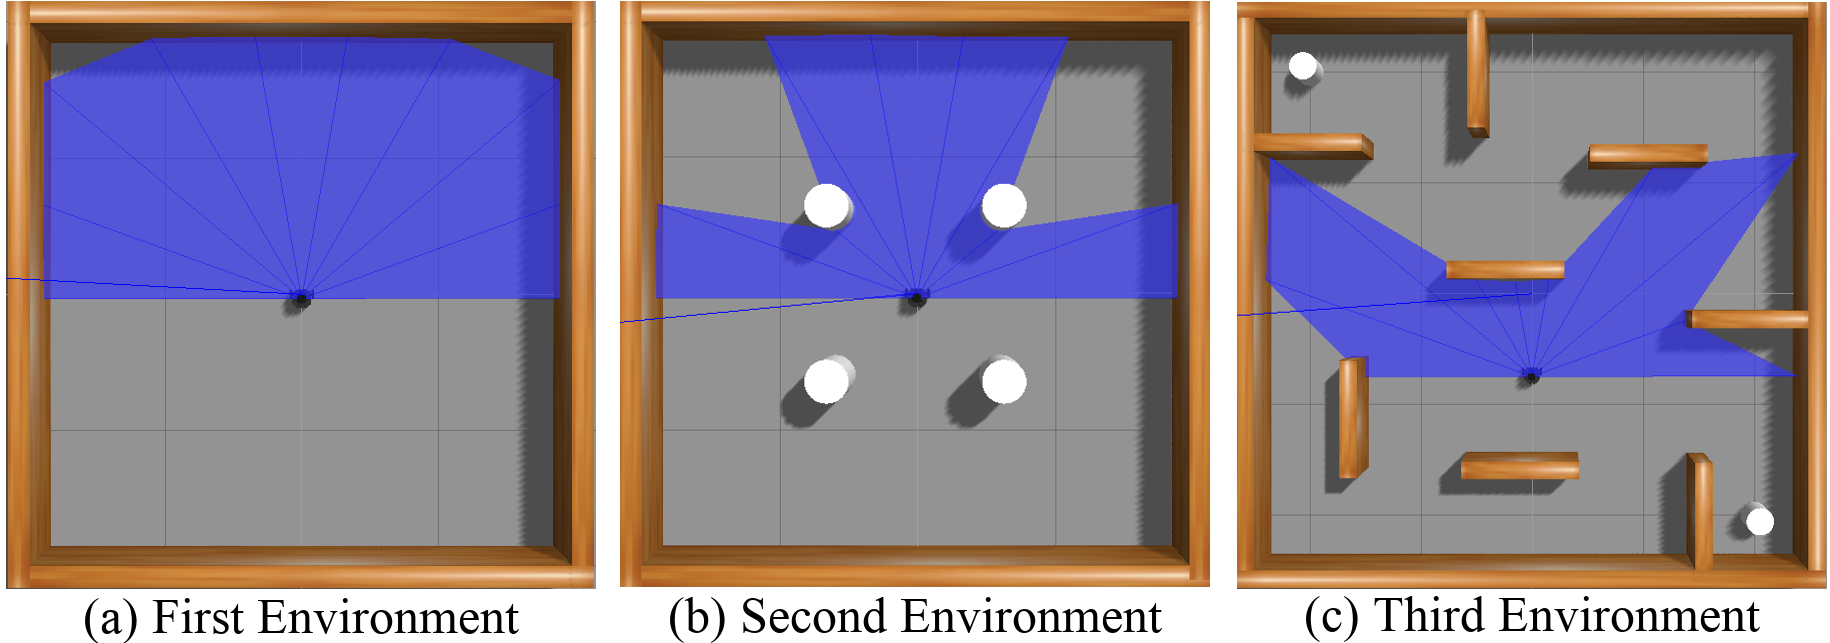
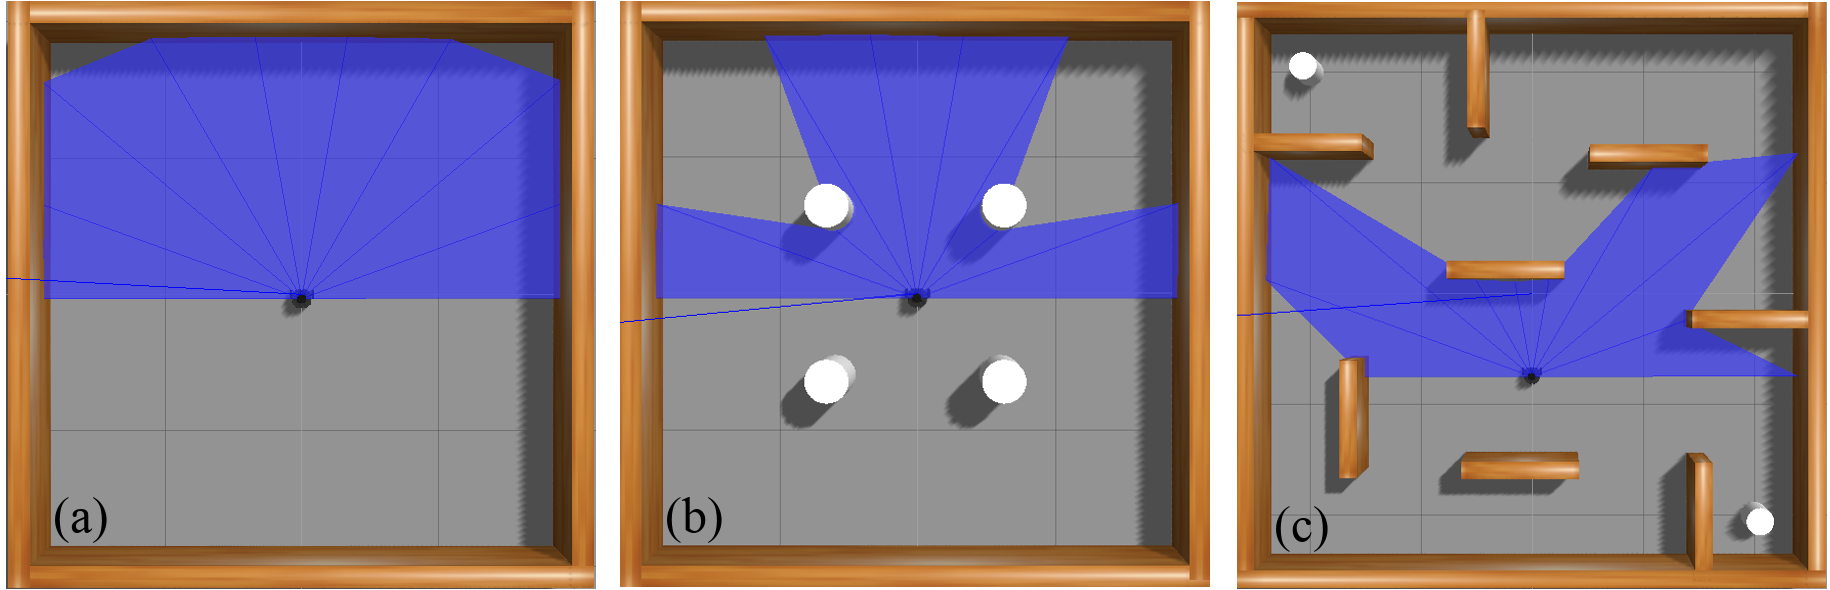
opencv_and_capture_explanation

diff --git a/sections/6_methodology.tex b/sections/6_methodology.tex
@@ -16,8 +16,8 @@ Once the system of state and actions has been defined, it is possible to create 
 The DDPG network has 14 inputs as presented in Fig. \ref{fig:entradaESaida}, in which 10 corresponds to the laser range findings, 2 corresponds to the linear and angular velocity, and the other 2 corresponds to the relative position and angle of the mobile robot to the target.
 The sample of the laser range findings are between $-90$ and $90$ degrees in relation to the robot. The output of the network is the action of linear and angular velocity that will be applied on the mobile robot.
 
-\begin{figure}
-\centerline{\includegraphics[width=\columnwidth]{images/o_and_i.png}}
+\begin{figure}[H]
+\centerline{\includegraphics[width=8cm]{images/o_and_i.png}}
 \caption{DDPG network inputs and outputs.}
 \label{fig:entradaESaida}
 \end{figure}
@@ -29,11 +29,11 @@ The angular velocity range is constrained between $(-1,1)$ and the hyperbolic ta
 For the linear angular range, that it is constrained between $(0,1)$, the sigmoid function was used.
 As there is no laser readings in the back of robot, the backward move is not necessary.
 The output actions are then multiplied with two hyperparameters to decide the final linear and angular velocity executed by the mobile robot.
-For this, it was used as maximum linear velocity $0.22$ $m/s$ and maximum angular velocity $1$ $rad/s$ on the TurtleBot3 robot version Burger.
+For this, it was used as maximum linear velocity $0.22$ $m/s$ and maximum angular velocity $2$ $rad/s$ on the TurtleBot3 robot version Burger.
 
 
-\begin{figure}
-\centerline{\includegraphics[width=\columnwidth]{images/projeto_integrador_en.png}}
+\begin{figure}[H]
+\centerline{\includegraphics[width=12cm]{images/projeto_integrador_en.png}}
 \caption{DDPG network structure model.}
 \label{fig:projetointegrador}
 \end{figure}
@@ -52,25 +52,23 @@ where $x$ is the input of the last layer, $y$ is the predicted Q-value, and $k$ 
 There were used three environments for the simulations. The first environment is  shown in Fig. \ref{fig:environments}(a), the environment represents a free area for the robot to move.
 The walls of this environment are the only things where the robot can collide.
 If the mobile robot collide with the wall or any obstacle, a negative reward is given for this action and the current episode stops.
-
-\begin{figure}
-\centerline{\includegraphics[width=\columnwidth]{images/environments1.png}}
-\caption{Training environments used on Gazebo simulation.}
-\label{fig:environments}
-\end{figure}
-
 The second environment is shown in Fig. \ref{fig:environments}(b) and has 4 fixed obstacles.
 It means that this environment is more complex in a way that the intelligent agent have to make a better strategy to not collide.
-
 The third environment, shown in Fig. \ref{fig:environments}(c), is more complex than the previous environments.  
 The number of walls and the mobile obstacles, represented by the white blocks, makes the environment more dynamical, approaching it to a real-world environment.
+
+\begin{figure}[H]
+\centerline{\includegraphics[width=\columnwidth]{images/environments1.png}}
+\caption{Training environments used on Gazebo simulation. First environment (a), second environment (b) and third environment (c).}
+\label{fig:environments}
+\end{figure}
 
 \subsection*{Reward Function}
 
 Once the environment have been defined it is possible to simulate a controlled mobile robot for a navigation task.
 Now it is necessary to define the reward and penalty system to the Deep-RL network.
 Remembering that the rewards and penalties are attributed numbers passed to the intelligent agent.
-So, the network will make a feedforward and backpropation step in order to learn the hyperparameters.
+So, the network will make a feedforward and backpropagation step in order to learn the hyperparameters.
 
 There are four different conditions for the reward system that presented better results for the problem's resolution and are the following:
 \begin{equation}
@@ -92,4 +90,49 @@ Otherwise, the reward is based on the distance difference from the target compar
 If this difference is positive the reward given is the distance traveled multiplied by the hyperparameter $(c_{r1})$, and if the distance is negative is used the hyperparameter $(c_{r2})$.
 This motivates the mobile robot to get closer to the target position and encourages it to avoid the obstacles in the environment.
 
+\subsection*{Positioning capture in real environments}
 
+After the DDPG network training through simulation, it will be tested how effective can be a this type of network in a real environment.
+A TurtleBot3, version Burger, will be used to perform this test. But for it is necessary to obtain the angle and distance of a target for the network to complete its goal. So it was setup a camera in the ceiling to extract this information.
+
+Firstly, the essential points positions to extract the angle and distance are taken from the image.
+These positions include the target, left and right side of the robot, and three points to be a distance reference parameter.
+In Fig. \ref{fig:pixel_to_meter} is shown that were used different colored circles to identify the relevant points.
+The yellow circle was attached to the target, the blue to the left side of the robot, the red to the right side and the three green circles were used by a reference parameter to calculate the distance.
+
+\begin{figure}[H]
+\centerline{\includegraphics[width=10cm]{images/pixel_to_meter.png}}
+\caption{Real environment relevant points}
+\label{fig:pixel_to_meter}
+\end{figure}
+
+
+After the points were extracted from the center of the circles, it is possible to calculate the two necessary DDPG network inputs.
+So, it is necessary to figure out the vector $distance$ that connects the center of TurtleBot3 to the target point, and the vector $direction$ which represents the direction of robot.
+The vector $direction$ starts from the center of TurtleBot3, which is equal to the midpoint of the blue and red points.
+The blue and red circles are on left and right sides of the mobile robot, respectively.
+With this it possible to determine front of the robot.
+%aqui vou escrever mais 
+The center of green circles have a predefined distance from each other, what permits the calculation of robot and target distance by converting the pixel distance of the image to the distance in meters.
+%aqui tbm
+
+
+
+
+% e aeee
+%acabei de perder meia hora no face AAAAAAA
+% cara, na escrita n me dou mt bem, mas vou escrevendo o q vem na cabeça e após a gente estrutura melho
+% faz isso mesmo meu KKKK eu sou meio travado na vdd mas to tentando (bem travado)
+% a ideia é meter o louco e escrever tudo que vem na mente
+% isso vem com a pratica SAUHSUAS, 
+% pode se sentir a vontade pra mudar as coisas.
+% só modifiquei pq achei melhor - ficou melhor assim msm ;)
+% o que tu conseguir escrever eu e o professor gamarra corrigimos depois
+
+
+%qual tu pensa a imagem pra colocar nessa subsection ae
+%um frame com o alvo indicado, pixel meter parameter tb, e o robo? q nem o video do face? ---> meu acho que pode ser só uma imagem que contenha o robo, a referencia e tals (pode ser do primeiro ambiente que a gente tinha feito) ai tu explica através dela - OK
+
+%coloquei a imagem do grafico com os obstáculos no drive, acho q ficou ok ---> eu vi, tá top na real - :D
+% amanhã vou pegar pra escrever nos resultados, tava editando o modelo mais hj - azulzinho topi --> e as imagens pra ficarem melhor tbm
+% vou pegar pra dormir aqui na real, flws o/// falooooow veéeei até amanhã

diff --git a/sections/7_results.tex b/sections/7_results.tex
@@ -8,7 +8,7 @@ All the training environments were arranged by ROBOTIS, however, some alteration
 A mobile robot with a DDPG network was trained in order to make the experiments in the environments presented on Fig. \ref{fig:environments}, where the goal of the mobile robot is to get to the target.
 For the first test was used the first environment that shows, in Fig. \ref{fig:amb1target}, a sequence of frames of the robot and the target. We can observe how the robot start in an initial position distant from the target, navigating in order to reach the target.
 
-\begin{figure}
+\begin{figure}[H]
 \centerline{\includegraphics[width=\columnwidth]{images/amb1target.png}}
 \caption{Images sequence in the first environment.}
 \label{fig:amb1target}
@@ -21,8 +21,8 @@ It is observed in the episode 400 a fall.
 This is a probable correction on some maximized parameters of the network and it resulted in a low reward.
 Results like this means that the network has a continuous learning trying to correct itself. 
 
-\begin{figure}
-\centerline{\includegraphics[width=\columnwidth]{images/stage_1.png}}
+\begin{figure}[H]
+\centerline{\includegraphics[width=10cm]{images/stage_1.png}}
 \caption{Rewards of the first environment.}
 \label{fig:stage_1}
 \end{figure}
@@ -33,7 +33,7 @@ The reward, with the blue color, has a great variance, it was decided to use a m
 
 After the mobile robot has been trained on the first environment, the experiment was done in the second environment and tested. It is shown in Fig. \ref{fig:amb2target} a sequence of the actions made by the TurtleBot from an initial position until it could arrive to the target after the training episodes.
 
-\begin{figure}
+\begin{figure}[H]
 \centerline{\includegraphics[width=\columnwidth]{images/amb2target.png}}
 \caption{Images sequence in the second environment.}
 \label{fig:amb2target}
@@ -43,15 +43,15 @@ The reward function results of the training process for the second environment a
 Comparing this results with the last environment, we can observe that it needed more episodes so the robot could present good results.
 It is noticed that with a more complex environment, exists the possibility that an agent could take a longer time to get a good performance.
 
-\begin{figure}
-\centerline{\includegraphics[width=\columnwidth]{images/stage_2.png}}
+\begin{figure}[H]
+\centerline{\includegraphics[width=10cm]{images/stage_2.png}}
 \caption{Rewards of the second environment.}
 \label{fig:stage_2}
 \end{figure}
 
 For the final test and the sequence of the actions made by the TurtleBot to arrive to the target after the training process it was used the third environment.  A sequence of the actions made by the TurtleBot to arrive to the target after the training episodes are shown in Fig. \ref{fig:amb3target}.
 
-\begin{figure}
+\begin{figure}[H]
 \centerline{\includegraphics[width=\columnwidth]{images/amb3target.png}}
 \caption{Images sequence in the third environment.}
 \label{fig:amb3target}
@@ -67,8 +67,51 @@ This resulted in the agent making the decision of that mobile robot would collid
 The occurred behavior may have been caused because of the system created.
 In order to resolve these actions, probably, it would be necessary to create a reward system that could bypass the error of the network.
 
-\begin{figure}
-\centerline{\includegraphics[width=\columnwidth]{images/stage_4.png}}
+\begin{figure}[H]
+\centerline{\includegraphics[width=10cm]{images/stage_4.png}}
 \caption{Rewards of the third environment.}
 \label{fig:stage_4}
+\end{figure}
+
+% Continua
+
+After the training and validation of each simulation environment, it was created two more environments for the testing of the DDPG network in the real world.
+The first real environment is shown in Fig. \ref{fig:real_envs} (a) and resembles the first simulation with no obstacles. The second environment is shown in Fig. \ref{fig:real_envs} (b) and it presents a complex environment similar to the second and third used on simulation with the exception of not having moving obstacles.
+
+\begin{figure}[H]
+\centerline{\includegraphics[width=12cm]{images/real_envs.png}}
+\caption{Environments created for the DDPG test on the real world. First environment (a) and second environment(b).}
+\label{fig:real_envs}
+\end{figure}
+
+With the target defined on the first real environment, it was executed the DDPG network on the Turtlebot3.
+In the graph, shown in Fig. \ref{fig:env1_graph}, is possible to see the trajectory made by the network to arrive to the target.
+In the Fig. \ref{fig:frames_env1} is shown by frames the trajectory made my the robot to complete the task.
+
+\begin{figure}[H]
+\centerline{\includegraphics[width=12cm]{images/env1_graph.png}}
+\caption{Trajectory of the Turtlebot3 in the first real environment}
+\label{fig:env1_graph}
+\end{figure}
+
+\begin{figure}[H]
+\centerline{\includegraphics[width=\columnwidth]{images/frames_env1.png}}
+\caption{Images sequence of the Turtlebot3 in the first real environment}
+\label{fig:frames_env1}
+\end{figure}
+
+For final test of the network, it was used the second real environment. In the graph, shown in Fig. \ref{fig:env2_graph}, even with obstacle the network was capable to arrive to the target. In the Fig. \ref{fig:frames_env2} is shown by frames the trajectory made my the robot to complete the task. %So, with these results applied on real world environment we can see how effective can be a DDPG network trained in simulation environment
+The robot was able to accomplish both task given in the real world environments.
+This shows how effective can be the DDPG networks, trained in a simulation environment, in completing complex tasks on physical environment.
+
+\begin{figure}[H]
+\centerline{\includegraphics[width=12cm]{images/env2_graph.png}}
+\caption{Trajectory of the Turtlebot3 in the second real environment}
+\label{fig:env2_graph}
+\end{figure}
+
+\begin{figure}[H]
+\centerline{\includegraphics[width=\columnwidth]{images/frames_env2.png}}
+\caption{Images sequence of the Turtlebot3 in the second real environment}
+\label{fig:frames_env2}
 \end{figure}

diff --git a/sections/5_experimental.tex b/sections/5_experimental.tex
@@ -18,8 +18,8 @@ Despite the importance of low latency on the robots control, ROS is not a real-t
 TurtleBot is a ROS standard platform robot, and there are 3 version of the series. TurtleBots are affordable and programmable mobile robots for use in education, research, hobby, and product prototyping.
 The third version was used on this project, shown in Fig. \ref{fig:turtlebot3}.
 
-\begin{figure}
-\centerline{\includegraphics[width=\columnwidth]{images/burger.png}}
+\begin{figure}[H]
+\centerline{\includegraphics[width=12cm]{images/burger.png}}
 \caption{Real and simulated TurtleBot3 Burger in Gazebo.}
 \label{fig:turtlebot3}
 \end{figure}
@@ -29,10 +29,10 @@ All the control is made by the open source controller board OpenCR1.0 and Raspbe
 The Table \ref{tab1} shows all hardware specification of the TurtleBot3 version Burger.
 
 
-\begin{table}[htbp]
-\caption{Hardware Specication of the TurtleBot3 Burger}
+\begin{table}[H]
+\caption{Hardware Specification of the TurtleBot3 Burger}
 \begin{center}
-\begin{tabular}{|c|c|}
+\begin{tabular}{|l|l|}
 \hline
 \textbf{Items}&\textbf{Specification} \\
 \hline
@@ -78,6 +78,6 @@ This makes Gazebo a great tool on the area of robotic simulation.
 \subsection*{OpenCV}
 
 Open Source Computer Vision (OpenCV) is an open source computer vision and machine learning software library.
-It is mainly used for developing advanced image processing and computer vision applications.
+It is mainly used for developing advanced image processing and computer vision applications \cite{bradski2008learning}.
 With OpenCV is possible to take frames out of a video and run algorithms to get necessary information.
-It can be great to identify an object, recognize a face or in tracking the movement of an object, extracting coordinates, for example.
+It can be great to identify an object, recognize a face or track the movement of an object, extracting coordinates, for example, what is very useful and commonly used in the wide area of robotics.

diff --git a/sections/8_conclusion.tex b/sections/8_conclusion.tex
@@ -9,7 +9,7 @@ On the three environments proposed, the algorithm had a good performance, howeve
 
 It is possible to conclude that DDPG networks are suitable for the development of applications that need a continuous control on the robotics.
 The Deep-RL networks can produce excellent results if the reward system is well-made for the problem that it wants to solve.
-It was proved that intelligent agents can move around in a complex simulated environment without any previous knowledge of the environment.
+It was proved that intelligent agents can move around in a complex simulated environments as well as in real world environments without any previous knowledge of the environment.
 The network based on deep deterministic policy gradients can provide means of unifying the machine learning for the control of robotic systems.
 This technique can be applied in function as manipulation of robotic arms, pendulums, games among others.
-As future works, it is intended to use the deep reinforcement learning technique for the navigation of the TurtleBot3 Burger robot in a real environment, thus, being able to validate the training in a simulated environment in a real environment.
+% As future works, it is intended to use the deep reinforcement learning technique for the navigation of the TurtleBot3 Burger robot in a real environment, thus, being able to validate the training in a simulated environment in a real environment.

diff --git a/sections/2_introduction.tex b/sections/2_introduction.tex
@@ -15,8 +15,8 @@ The 14 inputs are composed by 10 readings of the laser sensor, the previous line
 And the outputs of the network are the linear and angular velocity that are sent to the robot in order to get to the target.
 It is expected the intelligent agent won't collide with any obstacle on its trajectory to the target.
 
-\begin{figure}
-\centerline{\includegraphics[width=\columnwidth]{images/mapless_en.png}}
+\begin{figure}[H]
+\centerline{\includegraphics[width=12cm]{images/mapless_en.png}}
 \caption{System definition.}
 \label{fig:mapless}
 \end{figure}

diff --git a/main.tex b/main.tex
@@ -16,6 +16,7 @@
 \renewcommand\bibliographytypesize{\fontsize{10}{12}\selectfont}
 
 \usepackage{xcolor}
+\usepackage{float}
 
 %\usepackage[natbibapa,nodoi]{apacite}% Citation support using apacite.sty. Commands using natbib.sty MUST be deactivated first!
 %\setlength\bibhang{12pt}% To set the indentation in the list of references using apacite.sty. Commands using natbib.sty MUST be deactivated first!
